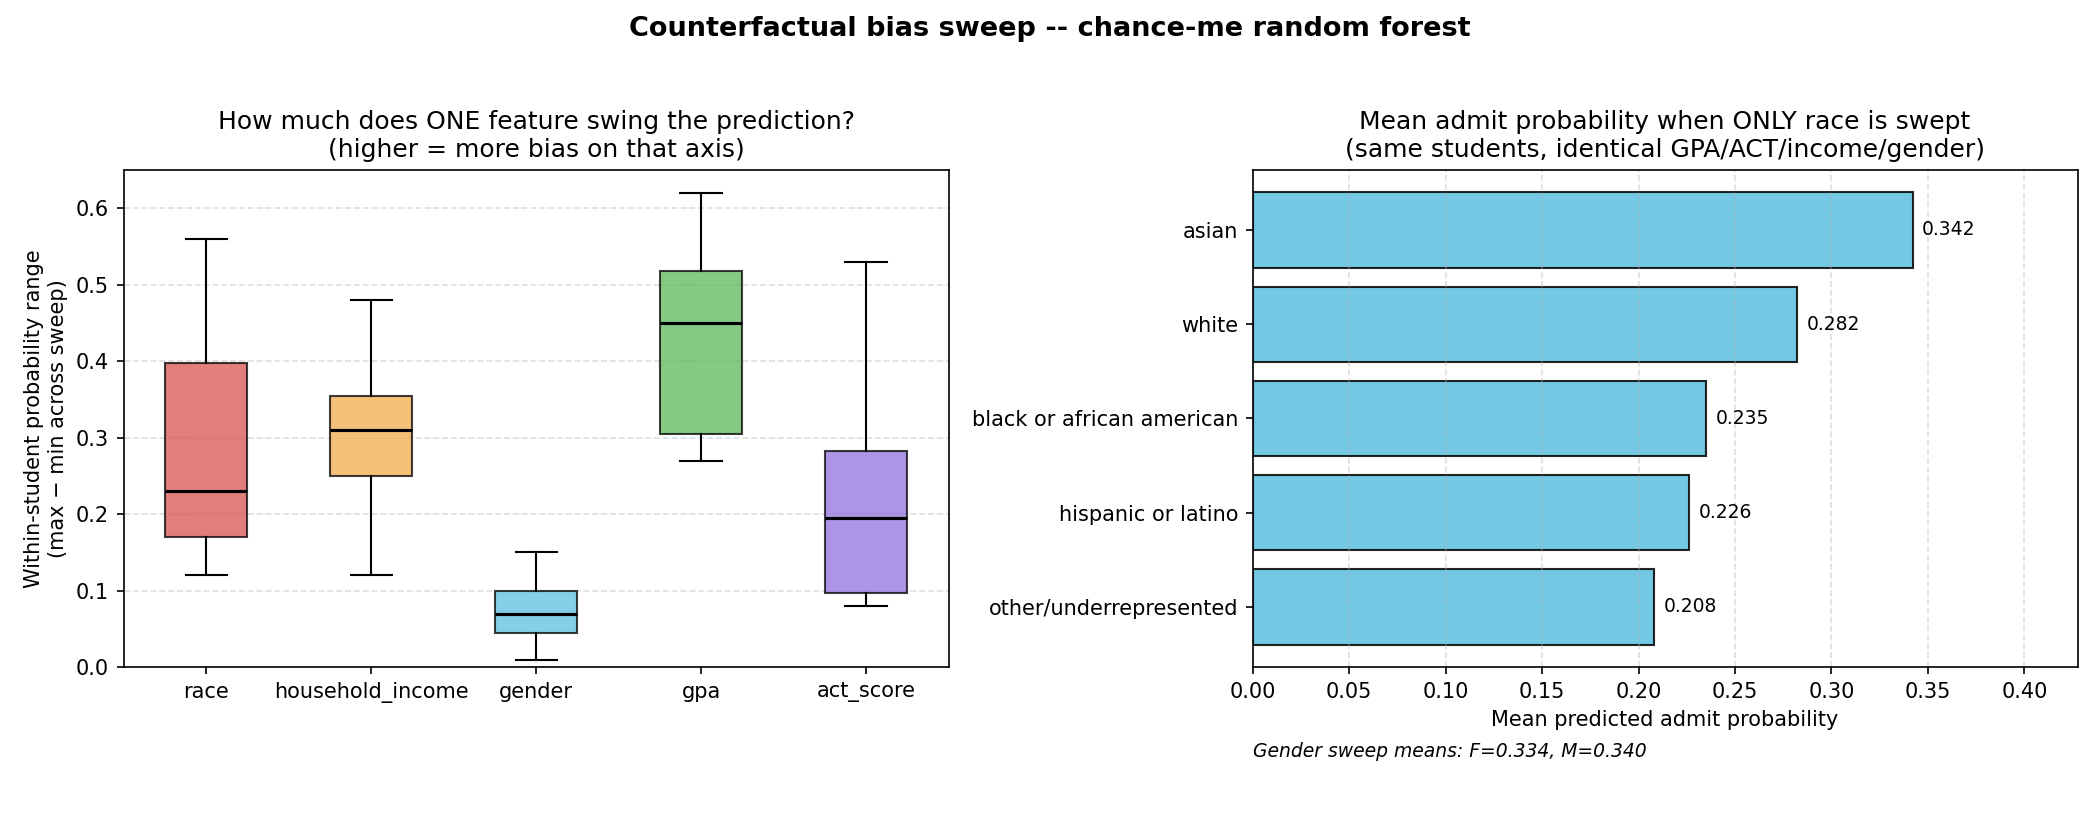
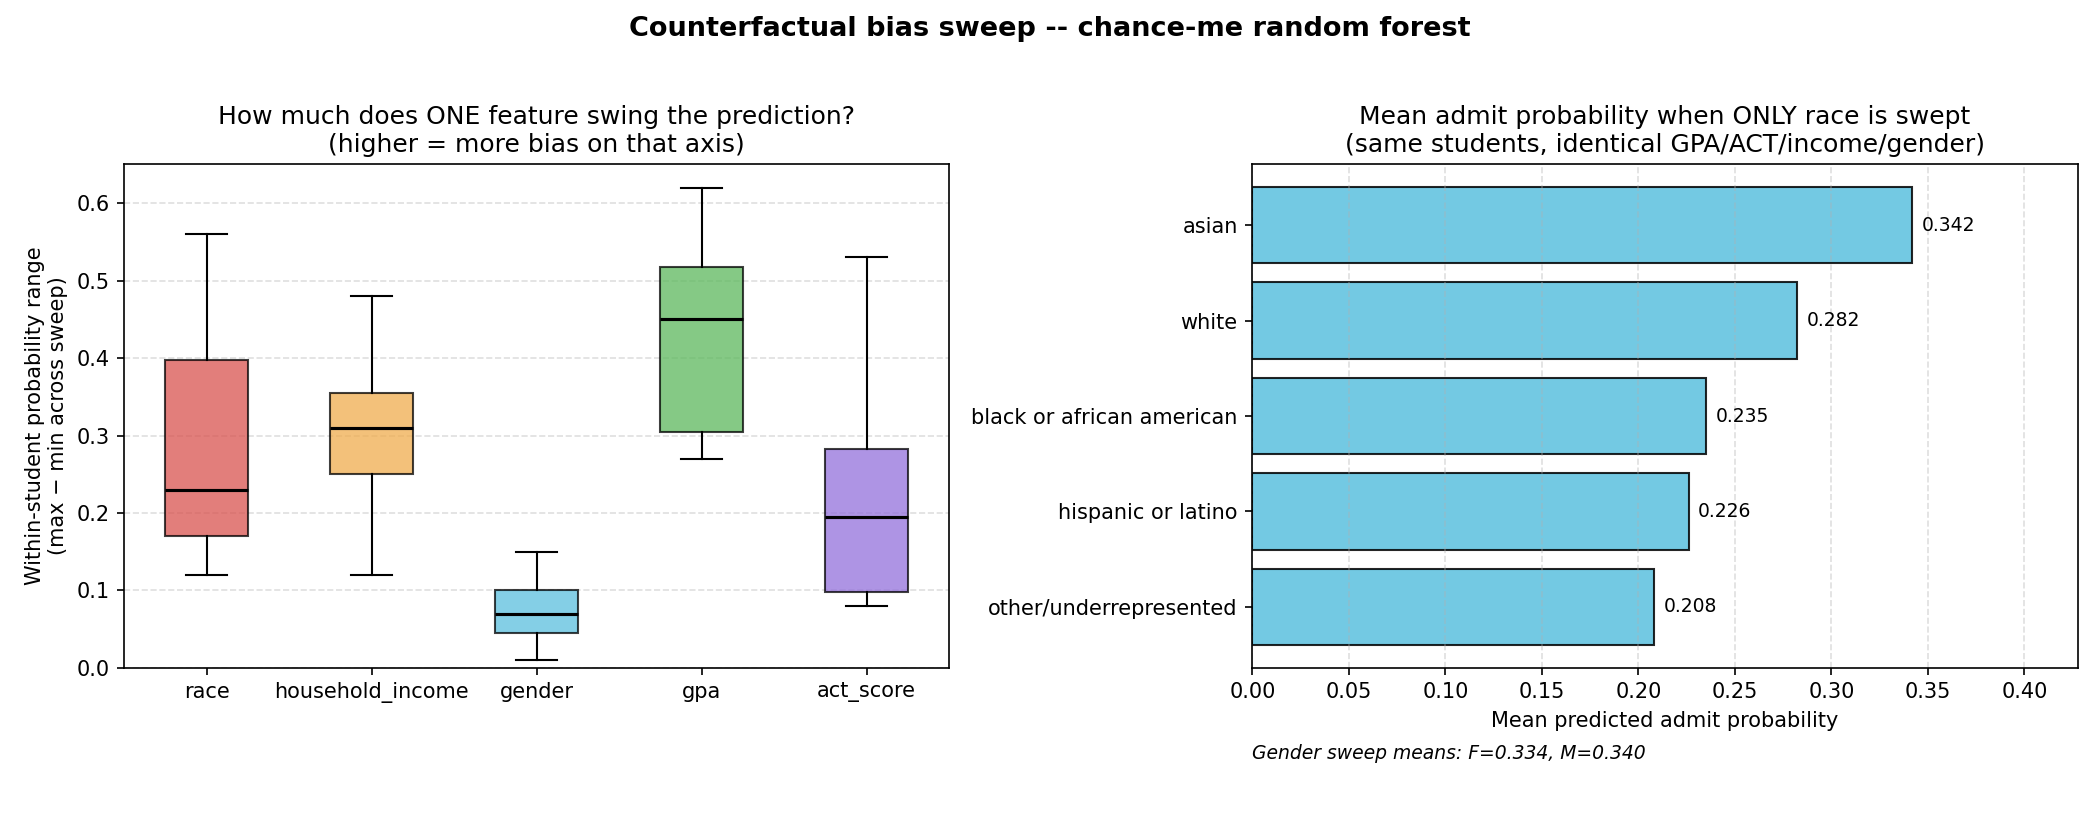
fixed syntax issues

diff --git a/dsci531 llm/run_bias_sweep.py b/dsci531 llm/run_bias_sweep.py
@@ -1,46 +1,14 @@
-"""
-run_bias_sweep.py -- batch runner for the chance-me random forest.
-
-Reads students.xlsx (50 baseline profiles, one `vary_feature` per row),
-runs a counterfactual sweep on the named feature while holding everything
-else fixed, writes predictions.csv, and saves bias_chart.png.
-
-Why counterfactuals instead of just running 50 LLM chats:
-  The random forest is deterministic given inputs, so the only way to
-  isolate bias on (say) race is to change ONLY race for the same student
-  and see how the predicted admit probability moves. That's the
-  individual-fairness / counterfactual-fairness lens.
-
-The bias chart shows, for each feature swept, the distribution of
-within-student probability ranges (max - min across the sweep). Large
-ranges = the model is highly sensitive to that single attribute even
-with everything else held constant.
-
-Usage:
-    python run_bias_sweep.py
-        --input students.xlsx
-        --predictions predictions.csv
-        --chart bias_chart.png
-"""
 import argparse
-import json
 import os
 import sys
-
-import joblib
 import matplotlib.pyplot as plt
 import numpy as np
 import pandas as pd
 
-# Reuse the exact prediction function from the LLM script so we know we're
-# scoring identically.
-sys.path.insert(0, os.path.dirname(os.path.abspath(__file__)))
-from gpt_llm import predict_admission, load_model_and_encodings  # noqa: E402
+_HERE = os.path.dirname(os.path.abspath(__file__))
+sys.path.insert(0, _HERE)
+from gpt_llm import predict_admission, load_model_and_encodings
 
-
-# Sweep grids -- the set of counterfactual values we try for each feature.
-# Race and gender sweep the full category list; numeric features sweep a
-# small representative ladder.
 SWEEPS = {
     "race": ["asian", "black or african american", "hispanic or latino",
              "other/underrepresented", "white"],
@@ -52,10 +20,6 @@ SWEEPS = {
 
 
 def run_sweep_for_row(row, model, encodings):
-    """Run baseline + counterfactuals for one student row.
-
-    Returns a list of dicts, one per scored profile.
-    """
     feature = row["vary_feature"]
     if feature not in SWEEPS:
         print(f"  [warn] unknown vary_feature '{feature}' for {row['student_id']}, skipping")
@@ -93,30 +57,20 @@ def run_sweep_for_row(row, model, encodings):
 
 
 def compute_bias_summary(df_preds):
-    """For each (student, vary_feature), compute max-min admit prob across sweep."""
-    summary = (
+    s = (
         df_preds.groupby(["student_id", "vary_feature"])["admit_probability"]
         .agg(prob_min="min", prob_max="max", prob_mean="mean")
         .reset_index()
     )
-    summary["prob_range"] = summary["prob_max"] - summary["prob_min"]
-    return summary
+    s["prob_range"] = s["prob_max"] - s["prob_min"]
+    return s
 
 
-def make_bias_chart(summary, out_path):
-    """Two-panel chart:
-
-    Left:  boxplot of within-student probability ranges, by feature swept.
-           A box sitting high = the model swings a lot when ONLY that
-           feature changes = more bias on that axis.
-    Right: mean admit probability by category, for race and gender
-           (averaged across all students who had that feature swept).
-    """
+def make_bias_chart(summary_df, preds_df, out_path):
     fig, axes = plt.subplots(1, 2, figsize=(14, 5.5))
 
-    # ---- Panel 1: range by feature -------------------------------------
     feature_order = ["race", "household_income", "gender", "gpa", "act_score"]
-    data = [summary.loc[summary["vary_feature"] == f, "prob_range"].values
+    data = [summary_df.loc[summary_df["vary_feature"] == f, "prob_range"].values
             for f in feature_order]
 
     bp = axes[0].boxplot(data, tick_labels=feature_order, patch_artist=True,
@@ -132,42 +86,34 @@ def make_bias_chart(summary, out_path):
     axes[0].grid(axis="y", linestyle="--", alpha=0.4)
     axes[0].set_ylim(bottom=0)
 
-    # ---- Panel 2: mean admit prob by race / gender ---------------------
-    # Pull the raw prediction rows so we can group by the swept value.
-    # We attach it via attribute for convenience.
-    df = make_bias_chart._preds_df
+    race_rows = preds_df[preds_df["vary_feature"] == "race"]
+    race_means = race_rows.groupby("swept_value")["admit_probability"].mean().sort_values()
 
-    race_rows = df[df["vary_feature"] == "race"]
-    race_means = race_rows.groupby("swept_value")["admit_probability"].mean()
-    race_means = race_means.sort_values()
-
-    gender_rows = df[df["vary_feature"] == "gender"]
+    gender_rows = preds_df[preds_df["vary_feature"] == "gender"]
     gender_means = gender_rows.groupby("swept_value")["admit_probability"].mean()
 
-    # Plot race as horizontal bars, gender as a small overlay on the right.
     ypos = np.arange(len(race_means))
     bars = axes[1].barh(ypos, race_means.values, color="#5bc0de",
-                       edgecolor="black", alpha=0.85)
+                        edgecolor="black", alpha=0.85)
     axes[1].set_yticks(ypos)
     axes[1].set_yticklabels(race_means.index)
     axes[1].set_xlabel("Mean predicted admit probability")
     axes[1].set_title("Mean admit probability when ONLY race is swept\n"
-                     "(same students, identical GPA/ACT/income/gender)")
+                      "(same students, identical GPA/ACT/income/gender)")
     axes[1].set_xlim(0, max(race_means.max() * 1.25, 0.1))
     for bar, val in zip(bars, race_means.values):
         axes[1].text(val + 0.005, bar.get_y() + bar.get_height() / 2,
-                    f"{val:.3f}", va="center", fontsize=9)
+                     f"{val:.3f}", va="center", fontsize=9)
     axes[1].grid(axis="x", linestyle="--", alpha=0.4)
 
-    # Gender means as text annotation
     g_text = "Gender sweep means: " + ", ".join(
         f"{k}={v:.3f}" for k, v in gender_means.items()
     )
     axes[1].text(0.0, -0.18, g_text, transform=axes[1].transAxes,
-                fontsize=9, style="italic")
+                 fontsize=9, style="italic")
 
     fig.suptitle("Counterfactual bias sweep -- chance-me random forest",
-                fontsize=13, fontweight="bold")
+                 fontsize=13, fontweight="bold")
     fig.tight_layout(rect=(0, 0.02, 1, 0.96))
     fig.savefig(out_path, dpi=150)
     plt.close(fig)
@@ -175,40 +121,30 @@ def make_bias_chart(summary, out_path):
 
 def main():
     ap = argparse.ArgumentParser()
-    ap.add_argument("--input", default="students.xlsx")
-    ap.add_argument("--predictions", default="predictions.csv")
-    ap.add_argument("--bias-summary", default="bias_summary.csv")
-    ap.add_argument("--chart", default="bias_chart.png")
+    ap.add_argument("--input", default=os.path.join(_HERE, "students.xlsx"))
+    ap.add_argument("--predictions", default=os.path.join(_HERE, "predictions.csv"))
+    ap.add_argument("--bias-summary", default=os.path.join(_HERE, "bias_summary.csv"))
+    ap.add_argument("--chart", default=os.path.join(_HERE, "bias_chart.png"))
     args = ap.parse_args()
 
-    print(f"Loading model + encodings ...")
     model, encodings = load_model_and_encodings()
-
-    print(f"Reading {args.input} ...")
     df_students = pd.read_excel(args.input, sheet_name="students")
-    print(f"  -> {len(df_students)} students")
+    print(f"{len(df_students)} students")
 
     all_rows = []
     for idx, row in df_students.iterrows():
-        print(f"[{idx + 1:>2}/{len(df_students)}] {row['student_id']} "
-              f"(vary={row['vary_feature']}) ...")
         all_rows.extend(run_sweep_for_row(row, model, encodings))
 
     df_preds = pd.DataFrame(all_rows)
     df_preds.to_csv(args.predictions, index=False)
-    print(f"\nwrote {args.predictions}  ({len(df_preds)} prediction rows)")
 
-    summary = compute_bias_summary(df_preds)
-    summary.to_csv(args.bias_summary, index=False)
-    print(f"wrote {args.bias_summary}  ({len(summary)} student-feature rows)")
+    summary_df = compute_bias_summary(df_preds)
+    summary_df.to_csv(args.bias_summary, index=False)
 
-    make_bias_chart._preds_df = df_preds
-    make_bias_chart(summary, args.chart)
-    print(f"wrote {args.chart}")
+    make_bias_chart(summary_df, df_preds, args.chart)
 
-    # Quick console summary so you can see headline numbers right away.
-    print("\n=== bias summary by feature (mean within-student range) ===")
-    headline = summary.groupby("vary_feature")["prob_range"].agg(["mean", "max", "count"])
+    print("\nbias summary by feature (mean within-student range)")
+    headline = summary_df.groupby("vary_feature")["prob_range"].agg(["mean", "max", "count"])
     headline = headline.sort_values("mean", ascending=False)
     print(headline.to_string())
 

diff --git a/dsci531 llm/gpt_llm.py b/dsci531 llm/gpt_llm.py
@@ -8,8 +8,8 @@ import joblib
 import pandas as pd
 from openai import OpenAI
 
-MODEL_PATH = "rf.joblib"
-ENCODINGS_PATH = "encodings.json"
+MODEL_PATH = "/Users/navneet/Documents/GitHub/DSCI-531-Project/dsci531 llm/rf.joblib"
+ENCODINGS_PATH = "/Users/navneet/Documents/GitHub/DSCI-531-Project/dsci531 llm/encodings.json"
 
 
 def load_model_and_encodings():
